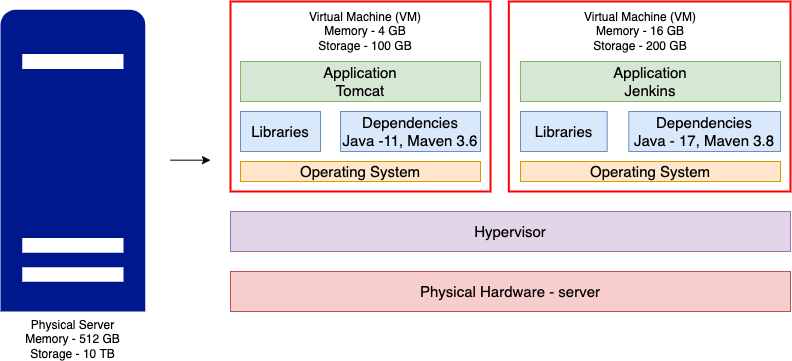
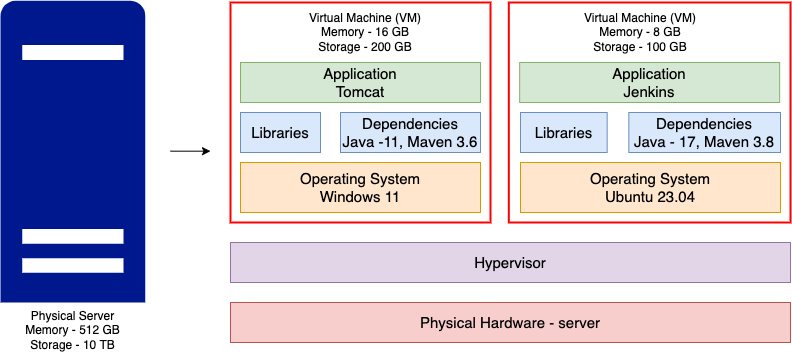
updated

diff --git a/content/docker/tutorials/what-is-docker.md b/content/docker/tutorials/what-is-docker.md
@@ -1,11 +1,53 @@
 ## What is Docker
 
-### Virtual machines created from a physical server
+### Physical server to Virtual Machines
 
-We have a big physical server 512 MB memory and 1TB storage
+We have a big physical server 512 GB memory and 10TB storage
 
-User `hypervisor` technology we can create multiple virtual machines from physical server
+Using `hypervisor` technology we can create multiple virtual machines from physical server with different capacity
+
+* Virtual machine - 1 with memory 4GB, storage 100 GB and operating system Ubuntu 23.04
+* Virtual machine - 2 with memory 4GB, storage 200 GB and operating system Oracle linux 9.2
+* Virtual machine - 3 with memory 16GB, storage 200 GB and operating system windows 11
 
 ![Server](/content/docker/tutorials/images/server.png)
 
+### Virtual Machine in detail
+
+Here we can see 2 virtual machines are created,
+
+* Virtual machine - 1 with memory 16GB, storage 200 GB and operating system windows 11. On top of that Java 11, maven 3.6 and Tomcat 9 Web server application is installed
+
+* Virtual machine - 2 with memory 8GB, storage 100 GB and operating system Ubuntu 23.04. On top of that Java 17, maven 3.8 and Jenkins CI/CD application is installed
+
 ![Server-detail](/content/docker/tutorials/images/server-detail.png)
+
+### Why we need to create multiple virtual machines from Physical server.
+
+Isolation on Dependencies, application, project, Networking, security
+
+* Project-A wants Java 11, Maven 3.6 and Tomcat web server version 8
+* Project-B wants Java 17, Maven 3.8 and Tomcat application version 9
+* Project-C wants NodeJS 20, and Nginx web server version 1.25
+
+Thinking on setting up CI/CD applications
+
+You want to set up ci/cd applications like Jenkins, SonarQube, Jfrog artifactory
+
+You are using old version of Jenkins application and it will support only on Java 11
+
+You are using latest version of SonarQube 10.1 with requires minimum Java 17
+
+![cicd-server](/content/docker/tutorials/images/cicd-server.png)
+
+### Where docker comes into picture here ?
+
+Docker is another isolation within the virtual machine
+
+Within the Virtual machine, you can create multiple docker containers, which are isolated from each other.
+
+Application dependencies are packaged within the docker container, no need to install in Virtual machine.
+
+In virtual machine, only docker needs to be installed
+
+![cicd-server](/content/docker/tutorials/images/docker.png)
